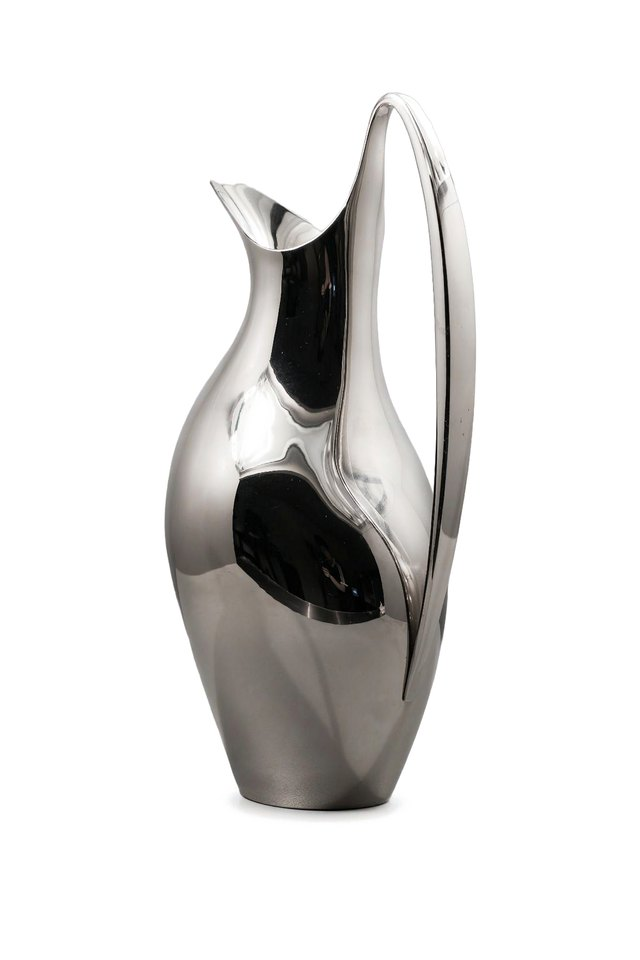
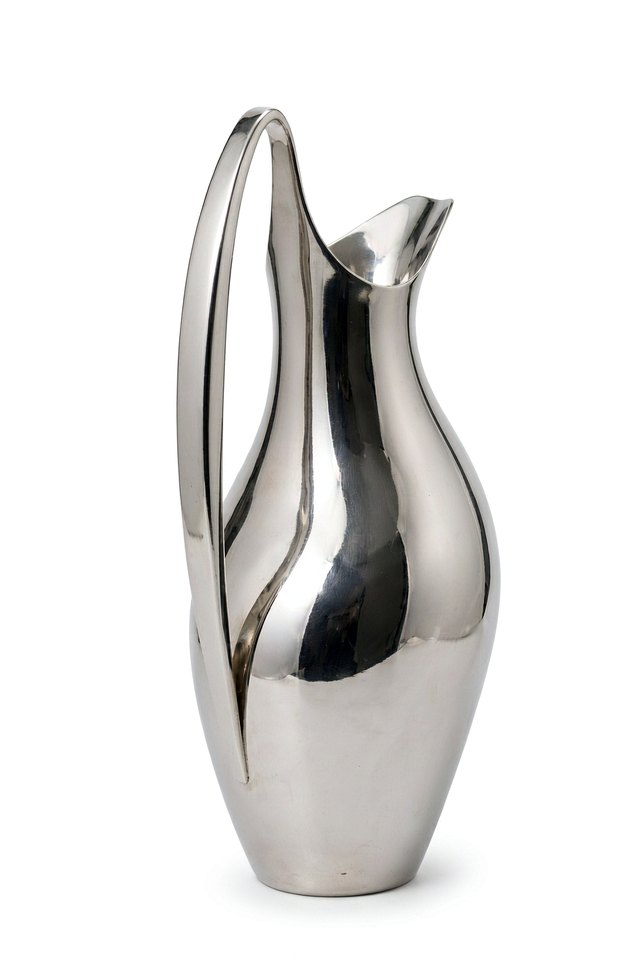
悬浮窗

Changed region(s): [[0.25, 0.0938, 0.7812, 0.9688]]

diff --git a/assets/style.css b/assets/style.css
@@ -271,12 +271,9 @@ a{color:inherit;text-decoration:none;}
 .float-btn{width:44px;height:44px;border:0;border-radius:2px;background:var(--dark);color:#fff;font-size:18px;cursor:pointer;box-shadow:0 4px 14px rgba(0,0,0,.24);transition:background .15s ease;}
 .float-btn:hover{background:var(--blue);}
 .float-panel{position:absolute;right:54px;top:50%;transform:translateY(-50%);background:#fff;border:1px solid var(--line);box-shadow:0 8px 26px rgba(0,0,0,.16);padding:12px 18px;white-space:nowrap;opacity:0;visibility:hidden;transition:all .22s ease;}
-.float-item .open{opacity:1;visibility:visible;}
+.float-item.open .float-panel{opacity:1;visibility:visible;}
 .float-panel b{display:block;font-size:11.5px;color:var(--muted);letter-spacing:.14em;font-weight:600;}
 .fp-num{display:block;font-size:13.5px;color:var(--ink);margin-top:3px;font-weight:600;letter-spacing:.02em;}
-.consult{position:fixed;right:20px;bottom:142px;z-index:90;}
-.consult a{display:block;background:var(--blue);color:#fff;padding:10px 14px;font-size:13px;letter-spacing:.1em;box-shadow:0 4px 14px rgba(30,80,162,.3);}
-.consult a:hover{background:#173e7d;}
 .backtop{position:fixed;right:20px;bottom:34px;z-index:90;}
 .backtop button{width:44px;height:44px;border:0;border-radius:2px;background:#c9cacd;color:#fff;font-size:17px;cursor:pointer;transition:background .15s ease;}
 .backtop button:hover{background:var(--dark);}
@@ -338,7 +335,6 @@ a{color:inherit;text-decoration:none;}
   .sec-head{margin-bottom:32px;}
   .section{padding:52px 0;}
   .section--soft{padding:52px 0;}
-  .consult{display:none;}
   .tbl{display:block;overflow-x:auto;}
   .gal-grid{grid-template-columns:1fr 1fr;gap:10px;}
   .gal-bar button{padding:7px 14px;font-size:12.5px;}

diff --git a/about/index.html b/about/index.html
@@ -122,7 +122,6 @@
   </div></div>
 </footer>
 
-<div class="consult"><a href="/contact/">在线咨询</a></div>
 <div class="backtop"><button type="button" onclick="window.scrollTo({top:0,behavior:'smooth'})" aria-label="回到顶部">↑</button></div>
 <div class="float">
   <div class="float-item">
@@ -166,7 +165,7 @@
     setTimeout(function(){ box.classList.add('fade'); setTimeout(function(){ box.hidden = true; }, 700); }, 6000);
     history.replaceState(null, '', location.pathname);
   }
-});
+})();
 </script>
 </body>
 </html>

diff --git a/contact/index.html b/contact/index.html
@@ -133,7 +133,6 @@
   </div></div>
 </footer>
 
-<div class="consult"><a href="/contact/">在线咨询</a></div>
 <div class="backtop"><button type="button" onclick="window.scrollTo({top:0,behavior:'smooth'})" aria-label="回到顶部">↑</button></div>
 <div class="float">
   <div class="float-item">
@@ -177,7 +176,7 @@
     setTimeout(function(){ box.classList.add('fade'); setTimeout(function(){ box.hidden = true; }, 700); }, 6000);
     history.replaceState(null, '', location.pathname);
   }
-});
+})();
 </script>
 </body>
 </html>

diff --git a/index.html b/index.html
@@ -222,7 +222,6 @@
   </div></div>
 </footer>
 
-<div class="consult"><a href="/contact/">在线咨询</a></div>
 <div class="backtop"><button type="button" onclick="window.scrollTo({top:0,behavior:'smooth'})" aria-label="回到顶部">↑</button></div>
 <div class="float">
   <div class="float-item">
@@ -266,7 +265,7 @@
     setTimeout(function(){ box.classList.add('fade'); setTimeout(function(){ box.hidden = true; }, 700); }, 6000);
     history.replaceState(null, '', location.pathname);
   }
-});
+})();
 </script>
 </body>
 </html>

diff --git a/products/brass-hardware/index.html b/products/brass-hardware/index.html
@@ -148,7 +148,6 @@
   </div></div>
 </footer>
 
-<div class="consult"><a href="/contact/">在线咨询</a></div>
 <div class="backtop"><button type="button" onclick="window.scrollTo({top:0,behavior:'smooth'})" aria-label="回到顶部">↑</button></div>
 <div class="float">
   <div class="float-item">
@@ -192,7 +191,7 @@
     setTimeout(function(){ box.classList.add('fade'); setTimeout(function(){ box.hidden = true; }, 700); }, 6000);
     history.replaceState(null, '', location.pathname);
   }
-});
+})();
 </script>
 </body>
 </html>

diff --git a/products/stainless-hardware/index.html b/products/stainless-hardware/index.html
@@ -148,7 +148,6 @@
   </div></div>
 </footer>
 
-<div class="consult"><a href="/contact/">在线咨询</a></div>
 <div class="backtop"><button type="button" onclick="window.scrollTo({top:0,behavior:'smooth'})" aria-label="回到顶部">↑</button></div>
 <div class="float">
   <div class="float-item">
@@ -192,7 +191,7 @@
     setTimeout(function(){ box.classList.add('fade'); setTimeout(function(){ box.hidden = true; }, 700); }, 6000);
     history.replaceState(null, '', location.pathname);
   }
-});
+})();
 </script>
 </body>
 </html>

diff --git a/products/zipper/index.html b/products/zipper/index.html
@@ -148,7 +148,6 @@
   </div></div>
 </footer>
 
-<div class="consult"><a href="/contact/">在线咨询</a></div>
 <div class="backtop"><button type="button" onclick="window.scrollTo({top:0,behavior:'smooth'})" aria-label="回到顶部">↑</button></div>
 <div class="float">
   <div class="float-item">
@@ -192,7 +191,7 @@
     setTimeout(function(){ box.classList.add('fade'); setTimeout(function(){ box.hidden = true; }, 700); }, 6000);
     history.replaceState(null, '', location.pathname);
   }
-});
+})();
 </script>
 </body>
 </html>

diff --git a/samples/index.html b/samples/index.html
@@ -262,7 +262,6 @@
   </div></div>
 </footer>
 
-<div class="consult"><a href="/contact/">在线咨询</a></div>
 <div class="backtop"><button type="button" onclick="window.scrollTo({top:0,behavior:'smooth'})" aria-label="回到顶部">↑</button></div>
 <div class="float">
   <div class="float-item">
@@ -306,7 +305,7 @@
     setTimeout(function(){ box.classList.add('fade'); setTimeout(function(){ box.hidden = true; }, 700); }, 6000);
     history.replaceState(null, '', location.pathname);
   }
-});
+})();
 </script>
 </body>
 </html>

diff --git a/services/index.html b/services/index.html
@@ -139,7 +139,6 @@
   </div></div>
 </footer>
 
-<div class="consult"><a href="/contact/">在线咨询</a></div>
 <div class="backtop"><button type="button" onclick="window.scrollTo({top:0,behavior:'smooth'})" aria-label="回到顶部">↑</button></div>
 <div class="float">
   <div class="float-item">
@@ -183,7 +182,7 @@
     setTimeout(function(){ box.classList.add('fade'); setTimeout(function(){ box.hidden = true; }, 700); }, 6000);
     history.replaceState(null, '', location.pathname);
   }
-});
+})();
 </script>
 </body>
 </html>

diff --git a/blog/index.html b/blog/index.html
@@ -87,7 +87,6 @@
   </div></div>
 </footer>
 
-<div class="consult"><a href="/contact/">在线咨询</a></div>
 <div class="backtop"><button type="button" onclick="window.scrollTo({top:0,behavior:'smooth'})" aria-label="回到顶部">↑</button></div>
 <div class="float">
   <div class="float-item">
@@ -131,7 +130,7 @@
     setTimeout(function(){ box.classList.add('fade'); setTimeout(function(){ box.hidden = true; }, 700); }, 6000);
     history.replaceState(null, '', location.pathname);
   }
-});
+})();
 </script>
 </body>
 </html>
